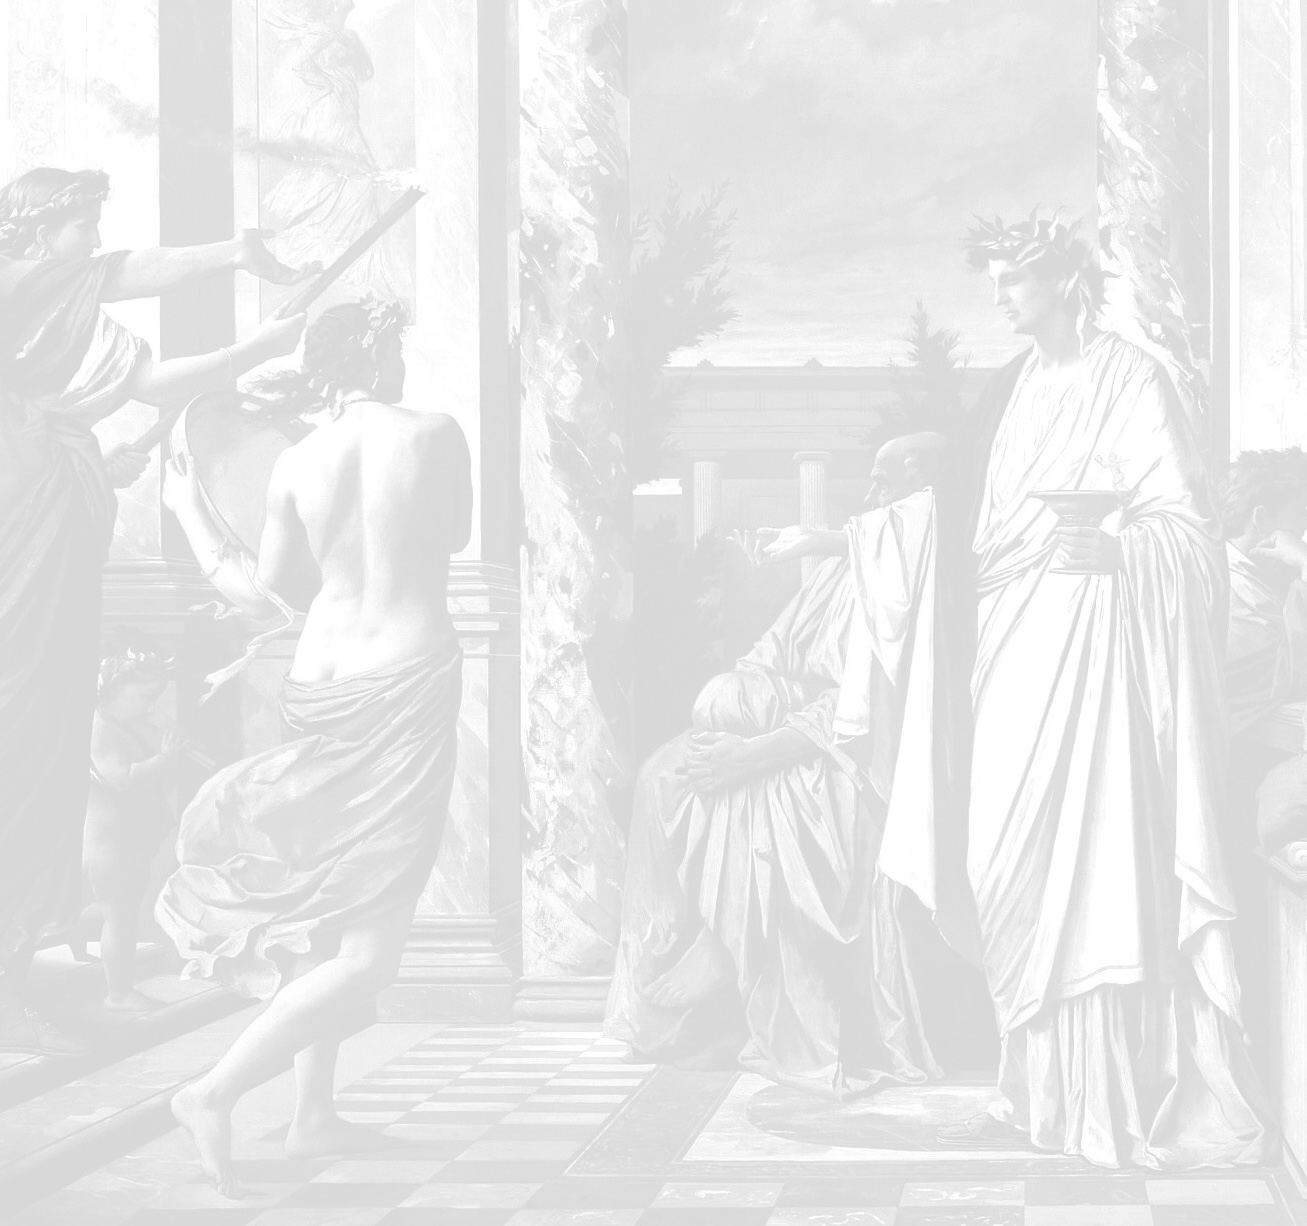
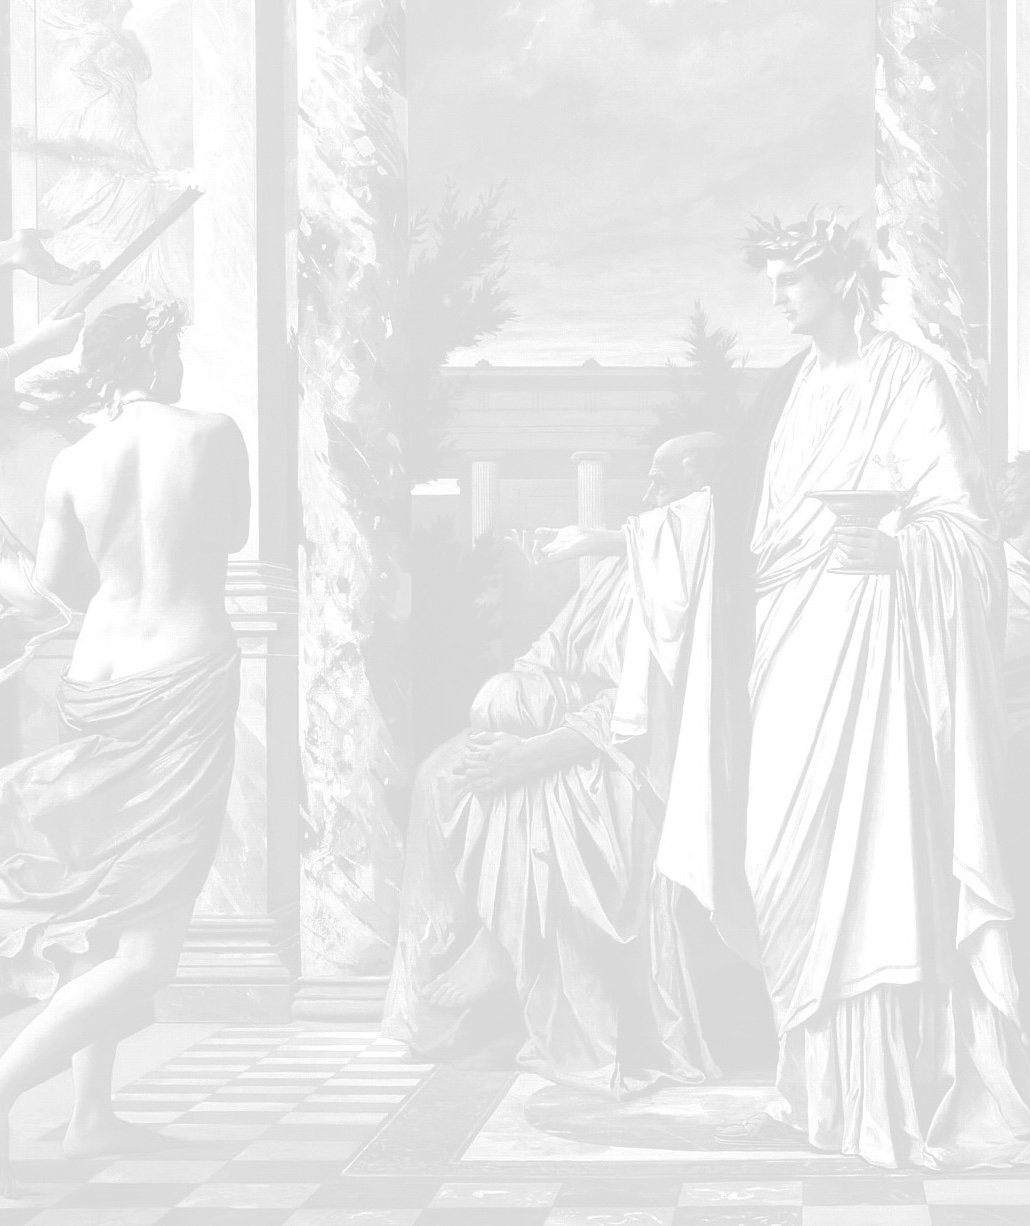
more mobile styles!

diff --git a/src/components/About/About.css b/src/components/About/About.css
@@ -4,10 +4,18 @@
 }
 
 .about-img {
-    width: 30%;
+    width: 100%;
     border-radius: 10px;
-    margin: 20px;
-    margin-left: 40px;
+    /* margin: 20px; */
+    /* margin-left: 40px; */
+}
+
+.about-img-container {
+    flex-shrink: 0;
+    width: 30%;
+    overflow: hidden;
+    padding: 20px;
+    padding-left: 20px;
 }
 
 .about-text-div {
@@ -71,6 +79,24 @@
     transition-delay: 0.6s;
   }
 
+  #about-mobile-header {
+    display: none;
+}
+
+#about-desktop-header {
+    display: block;
+    /* width: 100%; */
+}
+
+#about-divider-desktop {
+    display: block;
+}
+
+#about-divider-mobile {
+    display: none;
+}
+
+
 @media (max-width: 768px) {
     .about-container {
         flex-direction: column;
@@ -78,15 +104,33 @@
         padding: 20px;
     }
 
+    #about-mobile-header {
+        display: block;
+    }
+
+    #about-desktop-header {
+        display: none;
+        /* width: 100%; */
+    }
+
+    #about-divider-desktop {
+        display: none;
+    }
+
+    #about-divider-mobile {
+        display: block;
+        margin-bottom: 20px;
+    }
 
 
     .about-img {
         width: 100%;
         margin: 0px;
-        /* padding: 0px; */
-        /* padding: 20px; */
-        box-sizing: border-box;
-        /* margin: 20px; */
+    }
+
+    .about-img-container {
+        width: 100%;
+        padding: 0px;
     }
 
     .about-text-div {

diff --git a/src/components/About/About.jsx b/src/components/About/About.jsx
@@ -33,10 +33,18 @@ const About = () => {
 
   return (
     <div className="about-container">
-      <img src={forum} alt="Forum" className="about-img fade-element" />
+      <h2 className="about-title fade-element" id="about-mobile-header">
+        About the event
+      </h2>
+      <div className="marroon-divider fade-element" id="about-divider-mobile"></div>
+      <div className="about-img-container">
+        <img src={forum} alt="Forum" className="about-img fade-element" />
+      </div>
       <div className="about-text-div">
-        <h2 className="about-title fade-element">About the event</h2>
-        <div className="marroon-divider fade-element"></div>
+        <h2 className="about-title fade-element" id="about-desktop-header">
+          About the event
+        </h2>
+        <div className="marroon-divider fade-element" id="about-divider-desktop"></div>
         <p className="about-text fade-element">
           The Chicago Symposium on Transformative AI is an exclusive, two-day event taking place on
           November 9-10, 2024, at the prestigious David Rubenstein Forum at the University of

diff --git a/src/components/Header.css b/src/components/Header.css
@@ -105,7 +105,14 @@
     }
 }
 
-@media (max-width: 768px) {
+/* @media (max-width: 768px) {
+    .header-text {
+        font-size: 6vw;
+    }
+
+} */
+
+@media (max-width: 670px) {
     .header-text {
         font-size: 6vw;
     }
@@ -122,5 +129,11 @@
 @media (max-width: 468px) {
     .header-description {
         font-size: 14px;
+    }
+
+    .header-text {
+        font-size: 8vw;
+        padding-left: 20px;
+        padding-right: 20px;
     }
 }
